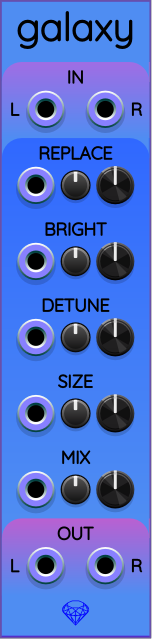
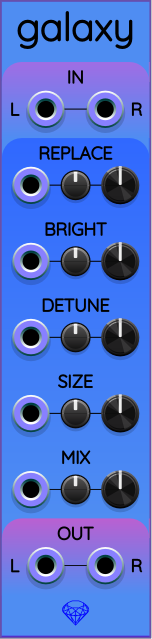
Galaxy panel: first release candidate
Finishing touches to Galaxy's panel artwork:

- Horizontal lines to visually connect ports and knobs in each row.
- Wider spacing of the flat control groups to make the horizontal lines more visible.

diff --git a/util/sapphire.py b/util/sapphire.py
@@ -113,21 +113,16 @@ def CenteredGemstone(panel:Panel) -> SapphireGemstone:
     return gem
 
 
+def HorizontalLinePath(x1:float, x2:float, y:float) -> Path:
+    return Path(Move(x1,y) + Line(x2,y) + ClosePath(), CONNECTOR_LINE_STYLE)
+
+
 def AddFlatControlGroup(pl: Element, controls: ControlLayer, x: float, y: float, symbol: str) -> None:
-    dxControlGroup = 8.0
-    dyControlGroup = 0.0
-    controls.append(Component(symbol + '_cv', x - dxControlGroup, y + dyControlGroup))
+    dx = 9.0
+    controls.append(Component(symbol + '_cv', x - dx, y))
     controls.append(Component(symbol + '_atten', x, y))
-    controls.append(Component(symbol + '_knob', x + dxControlGroup, y + dyControlGroup))
-    # FIXFIXFIX: add artwork like the following, but adapted for flat control groups.
-    if False:
-        t = ''
-        t += Move(x, y)
-        t += Line(x - dxControlGroup, y + dyControlGroup)
-        t += ClosePath()
-        t += Line(x + dxControlGroup, y + dyControlGroup)
-        t += ClosePath()
-        pl.append(Path(t, CONNECTOR_LINE_STYLE))
+    controls.append(Component(symbol + '_knob', x + dx, y))
+    pl.append(HorizontalLinePath(x - dx, x + dx, y))
 
 
 class FencePost:

diff --git a/util/make_sapphire_svg.py b/util/make_sapphire_svg.py
@@ -644,6 +644,9 @@ def GenerateGalaxyPanel() -> int:
         controls.append(Component('audio_left_output',  xmid - dxPortFromCenter, yOutPort))
         controls.append(Component('audio_right_output', xmid + dxPortFromCenter, yOutPort))
 
+        pl.append(HorizontalLinePath(xmid - dxPortFromCenter, xmid + dxPortFromCenter, yInPort))
+        pl.append(HorizontalLinePath(xmid - dxPortFromCenter, xmid + dxPortFromCenter, yOutPort))
+
         table: List[Tuple[str, str]] = [
             ('replace',     'REPLACE'),
             ('brightness',  'BRIGHT'),
